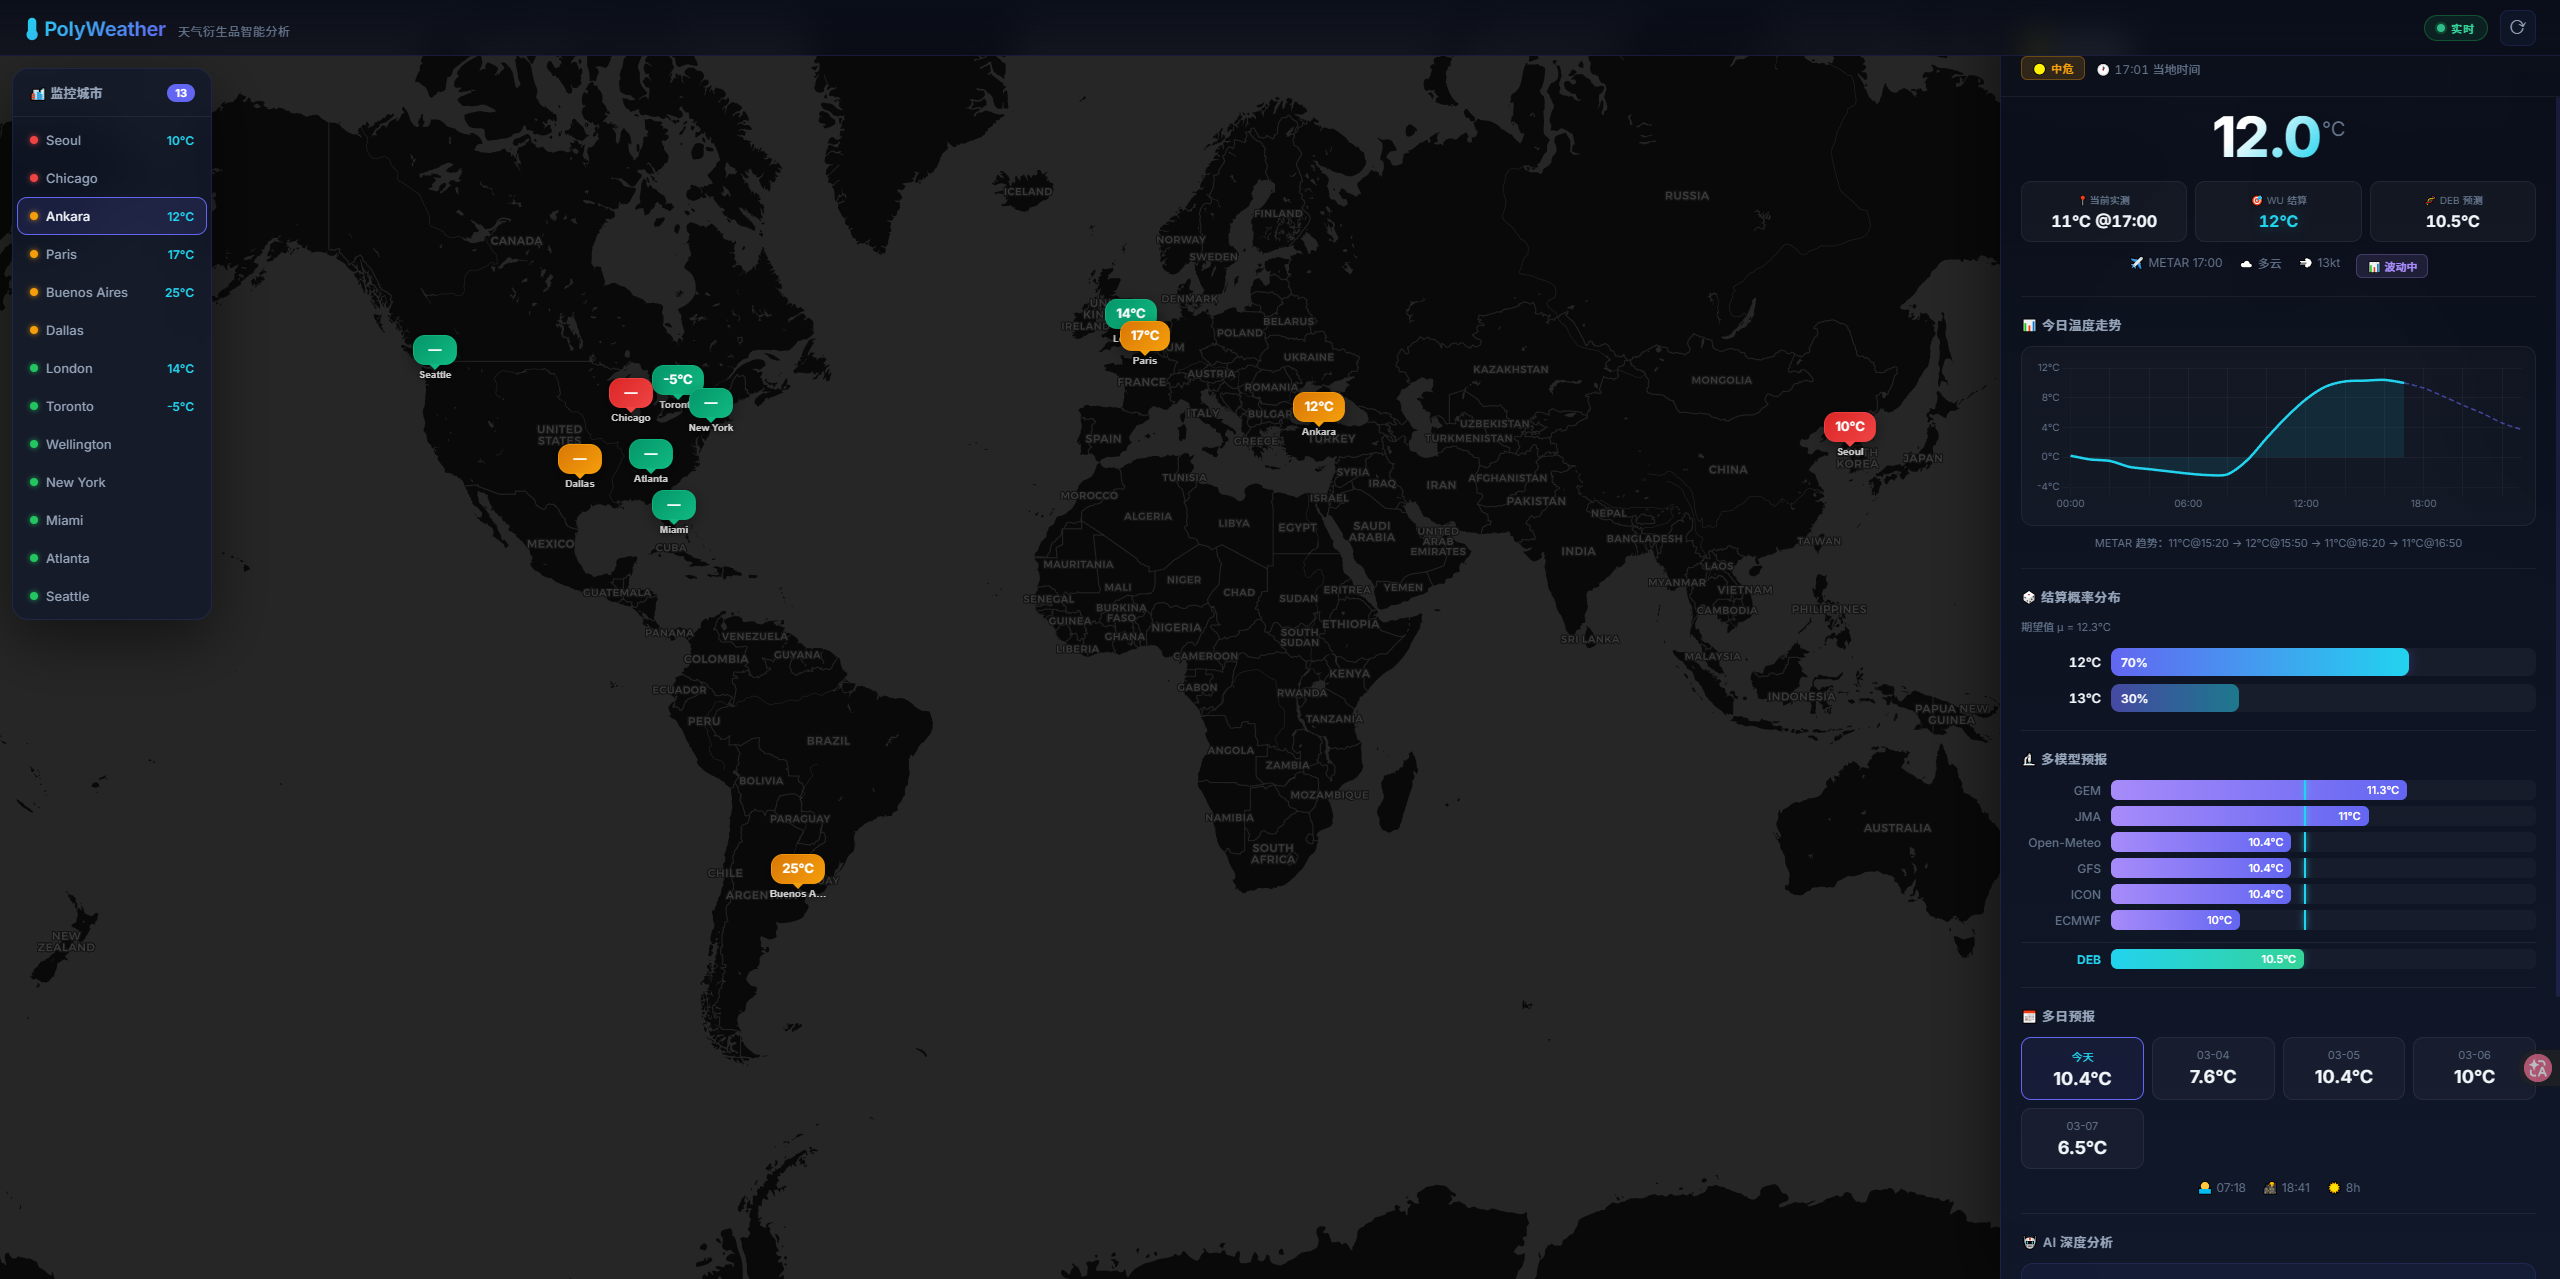
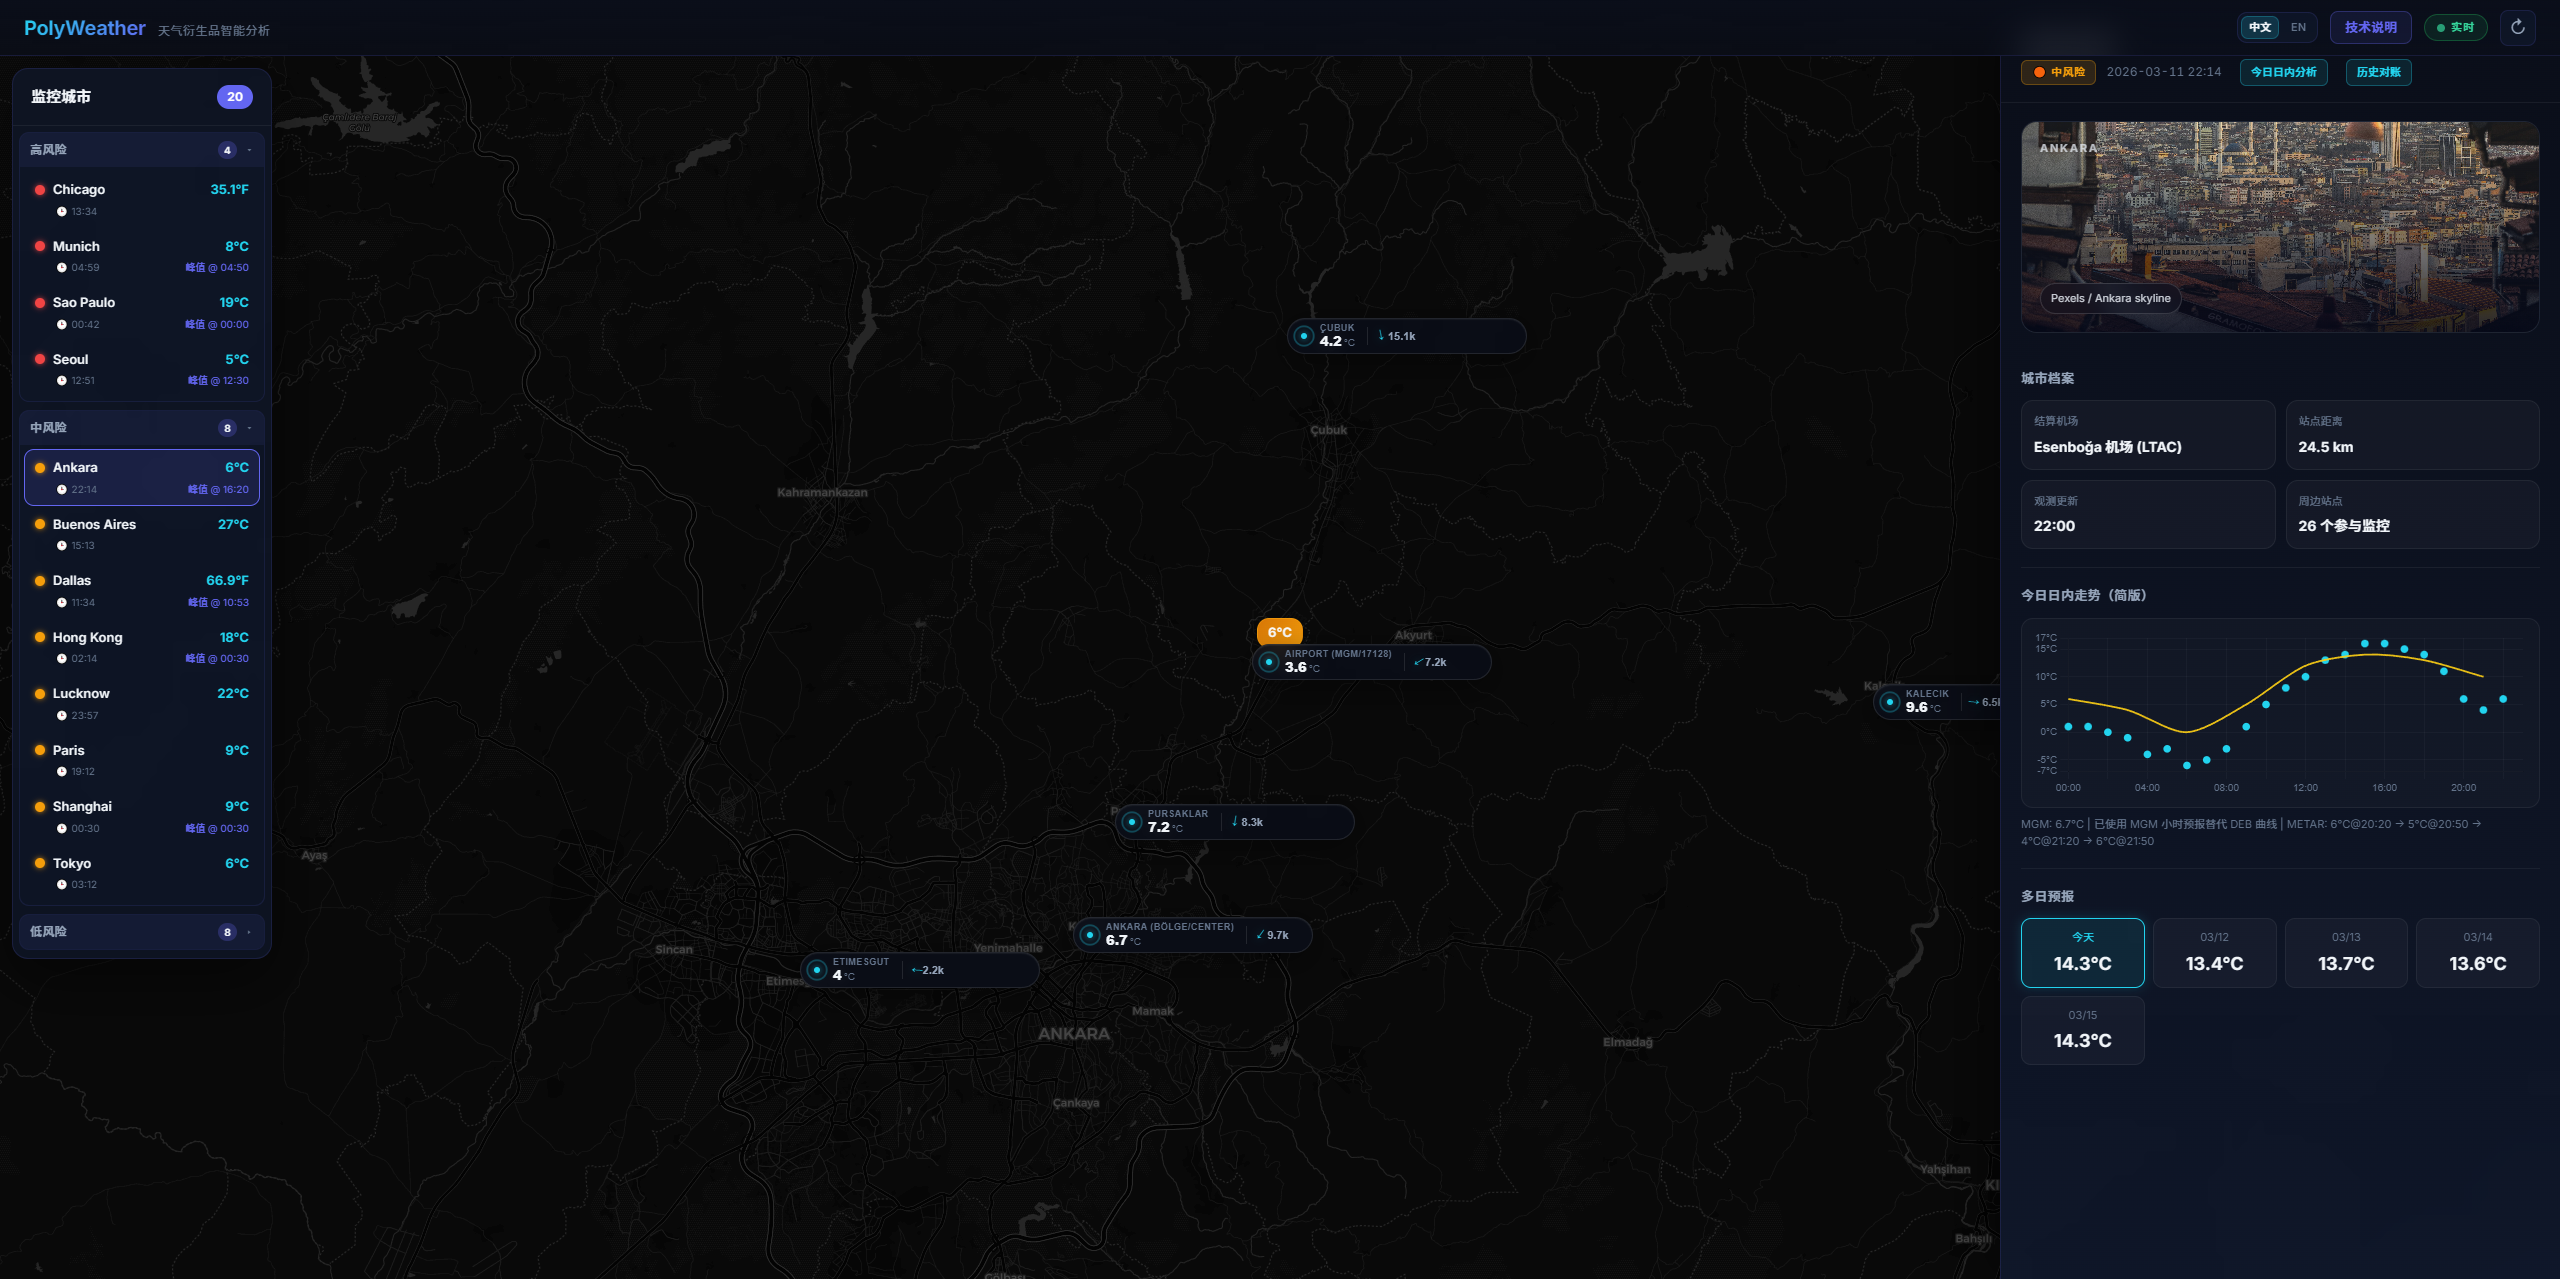
docs: Add product screenshots to READMEs and include a new demo map image.

diff --git a/README.md b/README.md
@@ -4,6 +4,16 @@ Production weather-intelligence stack for temperature settlement markets.
 
 Official dashboard: [polyweather-pro.vercel.app](https://polyweather-pro.vercel.app/)
 
+## Product Screenshots
+
+### Global Dashboard
+
+![PolyWeather global dashboard](docs/images/demo_map.png)
+
+### City Analysis (Ankara)
+
+![PolyWeather Ankara analysis](docs/images/demo_ankara.png)
+
 ## What This Project Does
 
 - Aggregates weather observations and forecasts for monitored cities.

diff --git a/README_ZH.md b/README_ZH.md
@@ -4,6 +4,16 @@
 
 官方看板：[polyweather-pro.vercel.app](https://polyweather-pro.vercel.app/)
 
+## 产品截图
+
+### 全球看板
+
+![PolyWeather 全球地图看板](docs/images/demo_map.png)
+
+### 城市分析（Ankara）
+
+![PolyWeather Ankara 分析页](docs/images/demo_ankara.png)
+
 ## 这个项目在做什么
 
 - 聚合监控城市的实测与预报数据。
